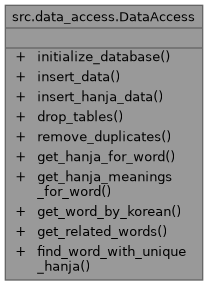
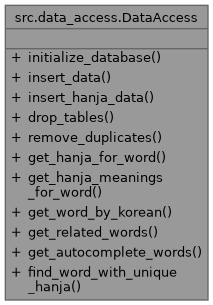
deploy: 163af90c7756c391848511adbbf691c6b5a837d2

Changed region(s): [[0.0288, 0.0, 0.9808, 1.0], [0.0577, 0.6737, 0.1154, 0.786]]

diff --git a/docs/navtreeindex0.js b/docs/navtreeindex0.js
@@ -3,42 +3,45 @@ var NAVTREEINDEX0 =
 "annotated.html":[1,0],
 "api_2____init_____8py.html":[2,0,0,0],
 "app_8py.html":[2,0,0,1],
-"app_8py.html#a01cb6213bd5592367067da38657a645a":[2,0,0,1,3],
-"app_8py.html#a176de600ef735cbe7b916fe2001e2b45":[2,0,0,1,8],
-"app_8py.html#a23e5c27fd4065b031f144521b7ae8497":[2,0,0,1,10],
-"app_8py.html#a56a8ed779749a77078562ad87be4fe04":[2,0,0,1,12],
-"app_8py.html#a5702ea214d2b31eb72a5029626bb70f8":[2,0,0,1,7],
-"app_8py.html#a72deaea484bf30029cb784dff75ec1f3":[2,0,0,1,0],
-"app_8py.html#a7a6d88df119924b34e474cf535263d06":[2,0,0,1,9],
-"app_8py.html#a8f56da2bd58eca36a1801418061ecc6b":[2,0,0,1,6],
-"app_8py.html#adb31592a03050f9813bd881678d6763f":[2,0,0,1,11],
-"app_8py.html#addcd3a07c06bd2200b07980fd50904d3":[2,0,0,1,4],
-"app_8py.html#ae1043cf9b00c1192e6269f629c5670bf":[2,0,0,1,2],
-"app_8py.html#ae8b1a661fd35aa767fc796c02781ba82":[2,0,0,1,1],
-"app_8py.html#af539acf96b123b092913c3b972d45f8d":[2,0,0,1,5],
+"app_8py.html#a01cb6213bd5592367067da38657a645a":[2,0,0,1,4],
+"app_8py.html#a175e2db7f35d625785ddcf39ac84b825":[2,0,0,1,0],
+"app_8py.html#a176de600ef735cbe7b916fe2001e2b45":[2,0,0,1,9],
+"app_8py.html#a23e5c27fd4065b031f144521b7ae8497":[2,0,0,1,11],
+"app_8py.html#a56a8ed779749a77078562ad87be4fe04":[2,0,0,1,13],
+"app_8py.html#a5702ea214d2b31eb72a5029626bb70f8":[2,0,0,1,8],
+"app_8py.html#a72deaea484bf30029cb784dff75ec1f3":[2,0,0,1,1],
+"app_8py.html#a7a6d88df119924b34e474cf535263d06":[2,0,0,1,10],
+"app_8py.html#a8f56da2bd58eca36a1801418061ecc6b":[2,0,0,1,7],
+"app_8py.html#adb31592a03050f9813bd881678d6763f":[2,0,0,1,12],
+"app_8py.html#addcd3a07c06bd2200b07980fd50904d3":[2,0,0,1,5],
+"app_8py.html#ae1043cf9b00c1192e6269f629c5670bf":[2,0,0,1,3],
+"app_8py.html#ae8b1a661fd35aa767fc796c02781ba82":[2,0,0,1,2],
+"app_8py.html#af539acf96b123b092913c3b972d45f8d":[2,0,0,1,6],
 "classes.html":[1,1],
-"classsrc_1_1data__access_1_1DataAccess.html":[0,0,1,1,0],
 "classsrc_1_1data__access_1_1DataAccess.html":[1,0,0,0,0],
-"classsrc_1_1data__access_1_1DataAccess.html#a1122604162d00ff40da4c08ce4761cbb":[1,0,0,0,0,5],
-"classsrc_1_1data__access_1_1DataAccess.html#a1122604162d00ff40da4c08ce4761cbb":[0,0,1,1,0,5],
-"classsrc_1_1data__access_1_1DataAccess.html#a1cfc6893f66c213340355c6acaf1a3a3":[1,0,0,0,0,8],
-"classsrc_1_1data__access_1_1DataAccess.html#a1cfc6893f66c213340355c6acaf1a3a3":[0,0,1,1,0,8],
-"classsrc_1_1data__access_1_1DataAccess.html#a1f8eb51816b5631748421df5638689e4":[0,0,1,1,0,4],
-"classsrc_1_1data__access_1_1DataAccess.html#a1f8eb51816b5631748421df5638689e4":[1,0,0,0,0,4],
-"classsrc_1_1data__access_1_1DataAccess.html#a3d1907ec15f436a5a700997ec2bdeedd":[0,0,1,1,0,3],
-"classsrc_1_1data__access_1_1DataAccess.html#a3d1907ec15f436a5a700997ec2bdeedd":[1,0,0,0,0,3],
-"classsrc_1_1data__access_1_1DataAccess.html#a4684f7cefabfbcb84b28be9e2ef74f64":[0,0,1,1,0,6],
-"classsrc_1_1data__access_1_1DataAccess.html#a4684f7cefabfbcb84b28be9e2ef74f64":[1,0,0,0,0,6],
-"classsrc_1_1data__access_1_1DataAccess.html#a4f4e7ab71ee7131858752bdfb4d0e2f1":[0,0,1,1,0,7],
-"classsrc_1_1data__access_1_1DataAccess.html#a4f4e7ab71ee7131858752bdfb4d0e2f1":[1,0,0,0,0,7],
-"classsrc_1_1data__access_1_1DataAccess.html#a6c59fef88695c46c9ee18f370e4346c6":[1,0,0,0,0,2],
-"classsrc_1_1data__access_1_1DataAccess.html#a6c59fef88695c46c9ee18f370e4346c6":[0,0,1,1,0,2],
-"classsrc_1_1data__access_1_1DataAccess.html#abcea9b4378c4ccf458bc2ad40418efdd":[1,0,0,0,0,1],
+"classsrc_1_1data__access_1_1DataAccess.html":[0,0,1,1,0],
+"classsrc_1_1data__access_1_1DataAccess.html#a1122604162d00ff40da4c08ce4761cbb":[0,0,1,1,0,6],
+"classsrc_1_1data__access_1_1DataAccess.html#a1122604162d00ff40da4c08ce4761cbb":[1,0,0,0,0,6],
+"classsrc_1_1data__access_1_1DataAccess.html#a1cfc6893f66c213340355c6acaf1a3a3":[1,0,0,0,0,9],
+"classsrc_1_1data__access_1_1DataAccess.html#a1cfc6893f66c213340355c6acaf1a3a3":[0,0,1,1,0,9],
+"classsrc_1_1data__access_1_1DataAccess.html#a1f8eb51816b5631748421df5638689e4":[0,0,1,1,0,5],
+"classsrc_1_1data__access_1_1DataAccess.html#a1f8eb51816b5631748421df5638689e4":[1,0,0,0,0,5],
+"classsrc_1_1data__access_1_1DataAccess.html#a3d1907ec15f436a5a700997ec2bdeedd":[0,0,1,1,0,4],
+"classsrc_1_1data__access_1_1DataAccess.html#a3d1907ec15f436a5a700997ec2bdeedd":[1,0,0,0,0,4],
+"classsrc_1_1data__access_1_1DataAccess.html#a4684f7cefabfbcb84b28be9e2ef74f64":[1,0,0,0,0,7],
+"classsrc_1_1data__access_1_1DataAccess.html#a4684f7cefabfbcb84b28be9e2ef74f64":[0,0,1,1,0,7],
+"classsrc_1_1data__access_1_1DataAccess.html#a4f4e7ab71ee7131858752bdfb4d0e2f1":[1,0,0,0,0,8],
+"classsrc_1_1data__access_1_1DataAccess.html#a4f4e7ab71ee7131858752bdfb4d0e2f1":[0,0,1,1,0,8],
+"classsrc_1_1data__access_1_1DataAccess.html#a6c59fef88695c46c9ee18f370e4346c6":[0,0,1,1,0,3],
+"classsrc_1_1data__access_1_1DataAccess.html#a6c59fef88695c46c9ee18f370e4346c6":[1,0,0,0,0,3],
+"classsrc_1_1data__access_1_1DataAccess.html#a7ccd10d3de002277f47fd9397fc046e2":[1,0,0,0,0,2],
+"classsrc_1_1data__access_1_1DataAccess.html#a7ccd10d3de002277f47fd9397fc046e2":[0,0,1,1,0,2],
 "classsrc_1_1data__access_1_1DataAccess.html#abcea9b4378c4ccf458bc2ad40418efdd":[0,0,1,1,0,1],
+"classsrc_1_1data__access_1_1DataAccess.html#abcea9b4378c4ccf458bc2ad40418efdd":[1,0,0,0,0,1],
 "classsrc_1_1data__access_1_1DataAccess.html#aeea5396030fe584da1640d87530a5cf1":[1,0,0,0,0,0],
 "classsrc_1_1data__access_1_1DataAccess.html#aeea5396030fe584da1640d87530a5cf1":[0,0,1,1,0,0],
-"classsrc_1_1data__access_1_1DataAccess.html#af99a1b0f03112122e4af577353d3444b":[0,0,1,1,0,9],
-"classsrc_1_1data__access_1_1DataAccess.html#af99a1b0f03112122e4af577353d3444b":[1,0,0,0,0,9],
+"classsrc_1_1data__access_1_1DataAccess.html#af99a1b0f03112122e4af577353d3444b":[0,0,1,1,0,10],
+"classsrc_1_1data__access_1_1DataAccess.html#af99a1b0f03112122e4af577353d3444b":[1,0,0,0,0,10],
 "classsrc_1_1data__processing_1_1DataProcessor.html":[1,0,0,1,0],
 "classsrc_1_1data__processing_1_1DataProcessor.html":[0,0,1,2,0],
 "classsrc_1_1data__processing_1_1DataProcessor.html#a3a6f7d8ef4426dfe180524a089fe5ea9":[0,0,1,2,0,7],
@@ -59,22 +62,22 @@ var NAVTREEINDEX0 =
 "classsrc_1_1data__processing_1_1DataProcessor.html#a908b48e2667224a24a994f9f15819cdb":[1,0,0,1,0,13],
 "classsrc_1_1data__processing_1_1DataProcessor.html#aa387522f4d9d82eab51fad066c97c404":[1,0,0,1,0,3],
 "classsrc_1_1data__processing_1_1DataProcessor.html#aa387522f4d9d82eab51fad066c97c404":[0,0,1,2,0,3],
-"classsrc_1_1data__processing_1_1DataProcessor.html#ac8e2944d6f855feb557e929eb4631b51":[0,0,1,2,0,8],
 "classsrc_1_1data__processing_1_1DataProcessor.html#ac8e2944d6f855feb557e929eb4631b51":[1,0,0,1,0,8],
-"classsrc_1_1data__processing_1_1DataProcessor.html#aca8cb2dd99e8358d0c80ff0f04307193":[1,0,0,1,0,9],
+"classsrc_1_1data__processing_1_1DataProcessor.html#ac8e2944d6f855feb557e929eb4631b51":[0,0,1,2,0,8],
 "classsrc_1_1data__processing_1_1DataProcessor.html#aca8cb2dd99e8358d0c80ff0f04307193":[0,0,1,2,0,9],
+"classsrc_1_1data__processing_1_1DataProcessor.html#aca8cb2dd99e8358d0c80ff0f04307193":[1,0,0,1,0,9],
 "classsrc_1_1data__processing_1_1DataProcessor.html#accedfc491786ec5de0b62d9f13ed1d2f":[1,0,0,1,0,0],
 "classsrc_1_1data__processing_1_1DataProcessor.html#accedfc491786ec5de0b62d9f13ed1d2f":[0,0,1,2,0,0],
 "classsrc_1_1data__processing_1_1DataProcessor.html#acee13daf812b03ebd4b468b5bd21d832":[0,0,1,2,0,12],
 "classsrc_1_1data__processing_1_1DataProcessor.html#acee13daf812b03ebd4b468b5bd21d832":[1,0,0,1,0,12],
-"classsrc_1_1data__processing_1_1DataProcessor.html#ad0cff2f590f2a2398bf8bcc35c99cfc9":[0,0,1,2,0,4],
 "classsrc_1_1data__processing_1_1DataProcessor.html#ad0cff2f590f2a2398bf8bcc35c99cfc9":[1,0,0,1,0,4],
+"classsrc_1_1data__processing_1_1DataProcessor.html#ad0cff2f590f2a2398bf8bcc35c99cfc9":[0,0,1,2,0,4],
 "classsrc_1_1data__processing_1_1DataProcessor.html#af1d408b78a8a28b54b96e30bc3de1754":[0,0,1,2,0,10],
 "classsrc_1_1data__processing_1_1DataProcessor.html#af1d408b78a8a28b54b96e30bc3de1754":[1,0,0,1,0,10],
-"classsrc_1_1database_1_1DatabaseConnection.html":[1,0,0,2,0],
 "classsrc_1_1database_1_1DatabaseConnection.html":[0,0,1,3,0],
-"classsrc_1_1database_1_1DatabaseConnection.html#a00d6547240ef42d689d7825c7a5ad1ed":[1,0,0,2,0,1],
+"classsrc_1_1database_1_1DatabaseConnection.html":[1,0,0,2,0],
 "classsrc_1_1database_1_1DatabaseConnection.html#a00d6547240ef42d689d7825c7a5ad1ed":[0,0,1,3,0,1],
+"classsrc_1_1database_1_1DatabaseConnection.html#a00d6547240ef42d689d7825c7a5ad1ed":[1,0,0,2,0,1],
 "classsrc_1_1database_1_1DatabaseConnection.html#ab4b17edc08a871595f10ae5d2c519806":[1,0,0,2,0,0],
 "classsrc_1_1database_1_1DatabaseConnection.html#ab4b17edc08a871595f10ae5d2c519806":[0,0,1,3,0,0],
 "classsrc_1_1database_1_1DatabaseConnection.html#ace6735dee7ad91a77d0b120ae3cb3f87":[1,0,0,2,0,2],
@@ -96,19 +99,20 @@ var NAVTREEINDEX0 =
 "main_8py.html#a756d97178b0d2558784ee8b4b5f05c7e":[2,0,1,5,0],
 "namespaceapi.html":[0,0,0],
 "namespaceapi_1_1app.html":[0,0,0,0],
-"namespaceapi_1_1app.html#a01cb6213bd5592367067da38657a645a":[0,0,0,0,3],
-"namespaceapi_1_1app.html#a176de600ef735cbe7b916fe2001e2b45":[0,0,0,0,8],
-"namespaceapi_1_1app.html#a23e5c27fd4065b031f144521b7ae8497":[0,0,0,0,10],
-"namespaceapi_1_1app.html#a56a8ed779749a77078562ad87be4fe04":[0,0,0,0,12],
-"namespaceapi_1_1app.html#a5702ea214d2b31eb72a5029626bb70f8":[0,0,0,0,7],
-"namespaceapi_1_1app.html#a72deaea484bf30029cb784dff75ec1f3":[0,0,0,0,0],
-"namespaceapi_1_1app.html#a7a6d88df119924b34e474cf535263d06":[0,0,0,0,9],
-"namespaceapi_1_1app.html#a8f56da2bd58eca36a1801418061ecc6b":[0,0,0,0,6],
-"namespaceapi_1_1app.html#adb31592a03050f9813bd881678d6763f":[0,0,0,0,11],
-"namespaceapi_1_1app.html#addcd3a07c06bd2200b07980fd50904d3":[0,0,0,0,4],
-"namespaceapi_1_1app.html#ae1043cf9b00c1192e6269f629c5670bf":[0,0,0,0,2],
-"namespaceapi_1_1app.html#ae8b1a661fd35aa767fc796c02781ba82":[0,0,0,0,1],
-"namespaceapi_1_1app.html#af539acf96b123b092913c3b972d45f8d":[0,0,0,0,5],
+"namespaceapi_1_1app.html#a01cb6213bd5592367067da38657a645a":[0,0,0,0,4],
+"namespaceapi_1_1app.html#a175e2db7f35d625785ddcf39ac84b825":[0,0,0,0,0],
+"namespaceapi_1_1app.html#a176de600ef735cbe7b916fe2001e2b45":[0,0,0,0,9],
+"namespaceapi_1_1app.html#a23e5c27fd4065b031f144521b7ae8497":[0,0,0,0,11],
+"namespaceapi_1_1app.html#a56a8ed779749a77078562ad87be4fe04":[0,0,0,0,13],
+"namespaceapi_1_1app.html#a5702ea214d2b31eb72a5029626bb70f8":[0,0,0,0,8],
+"namespaceapi_1_1app.html#a72deaea484bf30029cb784dff75ec1f3":[0,0,0,0,1],
+"namespaceapi_1_1app.html#a7a6d88df119924b34e474cf535263d06":[0,0,0,0,10],
+"namespaceapi_1_1app.html#a8f56da2bd58eca36a1801418061ecc6b":[0,0,0,0,7],
+"namespaceapi_1_1app.html#adb31592a03050f9813bd881678d6763f":[0,0,0,0,12],
+"namespaceapi_1_1app.html#addcd3a07c06bd2200b07980fd50904d3":[0,0,0,0,5],
+"namespaceapi_1_1app.html#ae1043cf9b00c1192e6269f629c5670bf":[0,0,0,0,3],
+"namespaceapi_1_1app.html#ae8b1a661fd35aa767fc796c02781ba82":[0,0,0,0,2],
+"namespaceapi_1_1app.html#af539acf96b123b092913c3b972d45f8d":[0,0,0,0,6],
 "namespacemembers.html":[0,1,0],
 "namespacemembers_func.html":[0,1,1],
 "namespacemembers_vars.html":[0,1,2],

diff --git a/docs/classsrc_1_1data__access_1_1DataAccess-members.html b/docs/classsrc_1_1data__access_1_1DataAccess-members.html
@@ -104,14 +104,15 @@ $(document).ready(function(){initNavTree('classsrc_1_1data__access_1_1DataAccess
 <table class="directory">
   <tr class="even"><td class="entry"><a class="el" href="classsrc_1_1data__access_1_1DataAccess.html#aeea5396030fe584da1640d87530a5cf1">drop_tables</a>(self)</td><td class="entry"><a class="el" href="classsrc_1_1data__access_1_1DataAccess.html">src.data_access.DataAccess</a></td><td class="entry"></td></tr>
   <tr class="odd"><td class="entry"><a class="el" href="classsrc_1_1data__access_1_1DataAccess.html#abcea9b4378c4ccf458bc2ad40418efdd">find_word_with_unique_hanja</a>(self)</td><td class="entry"><a class="el" href="classsrc_1_1data__access_1_1DataAccess.html">src.data_access.DataAccess</a></td><td class="entry"></td></tr>
-  <tr class="even"><td class="entry"><a class="el" href="classsrc_1_1data__access_1_1DataAccess.html#a6c59fef88695c46c9ee18f370e4346c6">get_hanja_for_word</a>(self, word)</td><td class="entry"><a class="el" href="classsrc_1_1data__access_1_1DataAccess.html">src.data_access.DataAccess</a></td><td class="entry"></td></tr>
-  <tr class="odd"><td class="entry"><a class="el" href="classsrc_1_1data__access_1_1DataAccess.html#a3d1907ec15f436a5a700997ec2bdeedd">get_hanja_meanings_for_word</a>(self, word, hanja_list, language)</td><td class="entry"><a class="el" href="classsrc_1_1data__access_1_1DataAccess.html">src.data_access.DataAccess</a></td><td class="entry"></td></tr>
-  <tr class="even"><td class="entry"><a class="el" href="classsrc_1_1data__access_1_1DataAccess.html#a1f8eb51816b5631748421df5638689e4">get_related_words</a>(self, hanja_character, language)</td><td class="entry"><a class="el" href="classsrc_1_1data__access_1_1DataAccess.html">src.data_access.DataAccess</a></td><td class="entry"></td></tr>
-  <tr class="odd"><td class="entry"><a class="el" href="classsrc_1_1data__access_1_1DataAccess.html#a1122604162d00ff40da4c08ce4761cbb">get_word_by_korean</a>(self, korean_word, language, hanja_characters=None)</td><td class="entry"><a class="el" href="classsrc_1_1data__access_1_1DataAccess.html">src.data_access.DataAccess</a></td><td class="entry"></td></tr>
-  <tr class="even"><td class="entry"><a class="el" href="classsrc_1_1data__access_1_1DataAccess.html#a4684f7cefabfbcb84b28be9e2ef74f64">initialize_database</a>(self)</td><td class="entry"><a class="el" href="classsrc_1_1data__access_1_1DataAccess.html">src.data_access.DataAccess</a></td><td class="entry"></td></tr>
-  <tr class="odd"><td class="entry"><a class="el" href="classsrc_1_1data__access_1_1DataAccess.html#a4f4e7ab71ee7131858752bdfb4d0e2f1">insert_data</a>(self, processed_data)</td><td class="entry"><a class="el" href="classsrc_1_1data__access_1_1DataAccess.html">src.data_access.DataAccess</a></td><td class="entry"></td></tr>
-  <tr class="even"><td class="entry"><a class="el" href="classsrc_1_1data__access_1_1DataAccess.html#a1cfc6893f66c213340355c6acaf1a3a3">insert_hanja_data</a>(self, hanja_dict)</td><td class="entry"><a class="el" href="classsrc_1_1data__access_1_1DataAccess.html">src.data_access.DataAccess</a></td><td class="entry"></td></tr>
-  <tr class="odd"><td class="entry"><a class="el" href="classsrc_1_1data__access_1_1DataAccess.html#af99a1b0f03112122e4af577353d3444b">remove_duplicates</a>(self)</td><td class="entry"><a class="el" href="classsrc_1_1data__access_1_1DataAccess.html">src.data_access.DataAccess</a></td><td class="entry"></td></tr>
+  <tr class="even"><td class="entry"><a class="el" href="classsrc_1_1data__access_1_1DataAccess.html#a7ccd10d3de002277f47fd9397fc046e2">get_autocomplete_words</a>(self, query, limit=10)</td><td class="entry"><a class="el" href="classsrc_1_1data__access_1_1DataAccess.html">src.data_access.DataAccess</a></td><td class="entry"></td></tr>
+  <tr class="odd"><td class="entry"><a class="el" href="classsrc_1_1data__access_1_1DataAccess.html#a6c59fef88695c46c9ee18f370e4346c6">get_hanja_for_word</a>(self, word)</td><td class="entry"><a class="el" href="classsrc_1_1data__access_1_1DataAccess.html">src.data_access.DataAccess</a></td><td class="entry"></td></tr>
+  <tr class="even"><td class="entry"><a class="el" href="classsrc_1_1data__access_1_1DataAccess.html#a3d1907ec15f436a5a700997ec2bdeedd">get_hanja_meanings_for_word</a>(self, word, hanja_list, language)</td><td class="entry"><a class="el" href="classsrc_1_1data__access_1_1DataAccess.html">src.data_access.DataAccess</a></td><td class="entry"></td></tr>
+  <tr class="odd"><td class="entry"><a class="el" href="classsrc_1_1data__access_1_1DataAccess.html#a1f8eb51816b5631748421df5638689e4">get_related_words</a>(self, hanja_character, language)</td><td class="entry"><a class="el" href="classsrc_1_1data__access_1_1DataAccess.html">src.data_access.DataAccess</a></td><td class="entry"></td></tr>
+  <tr class="even"><td class="entry"><a class="el" href="classsrc_1_1data__access_1_1DataAccess.html#a1122604162d00ff40da4c08ce4761cbb">get_word_by_korean</a>(self, korean_word, language, hanja_characters=None)</td><td class="entry"><a class="el" href="classsrc_1_1data__access_1_1DataAccess.html">src.data_access.DataAccess</a></td><td class="entry"></td></tr>
+  <tr class="odd"><td class="entry"><a class="el" href="classsrc_1_1data__access_1_1DataAccess.html#a4684f7cefabfbcb84b28be9e2ef74f64">initialize_database</a>(self)</td><td class="entry"><a class="el" href="classsrc_1_1data__access_1_1DataAccess.html">src.data_access.DataAccess</a></td><td class="entry"></td></tr>
+  <tr class="even"><td class="entry"><a class="el" href="classsrc_1_1data__access_1_1DataAccess.html#a4f4e7ab71ee7131858752bdfb4d0e2f1">insert_data</a>(self, processed_data)</td><td class="entry"><a class="el" href="classsrc_1_1data__access_1_1DataAccess.html">src.data_access.DataAccess</a></td><td class="entry"></td></tr>
+  <tr class="odd"><td class="entry"><a class="el" href="classsrc_1_1data__access_1_1DataAccess.html#a1cfc6893f66c213340355c6acaf1a3a3">insert_hanja_data</a>(self, hanja_dict)</td><td class="entry"><a class="el" href="classsrc_1_1data__access_1_1DataAccess.html">src.data_access.DataAccess</a></td><td class="entry"></td></tr>
+  <tr class="even"><td class="entry"><a class="el" href="classsrc_1_1data__access_1_1DataAccess.html#af99a1b0f03112122e4af577353d3444b">remove_duplicates</a>(self)</td><td class="entry"><a class="el" href="classsrc_1_1data__access_1_1DataAccess.html">src.data_access.DataAccess</a></td><td class="entry"></td></tr>
 </table></div><!-- contents -->
 </div><!-- doc-content -->
 <!-- start footer part -->

diff --git a/docs/classsrc_1_1data__access_1_1DataAccess.html b/docs/classsrc_1_1data__access_1_1DataAccess.html
@@ -110,7 +110,7 @@ Collaboration diagram for src.data_access.DataAccess:</div>
 <div class="dyncontent">
 <div class="center"><img src="classsrc_1_1data__access_1_1DataAccess__coll__graph.png" border="0" usemap="#asrc_8data__access_8DataAccess_coll__map" alt="Collaboration graph"/></div>
 <map name="asrc_8data__access_8DataAccess_coll__map" id="asrc_8data__access_8DataAccess_coll__map">
-<area shape="rect" title="A class to handle database operations for managing Korean words and their associated Hanja characters..." alt="" coords="5,5,203,280"/>
+<area shape="rect" title="A class to handle database operations for managing Korean words and their associated Hanja characters..." alt="" coords="5,5,208,300"/>
 </map>
 </div>
 <table class="memberdecls">
@@ -141,6 +141,9 @@ Public Member Functions</h2></td></tr>
 <tr class="memitem:a1f8eb51816b5631748421df5638689e4" id="r_a1f8eb51816b5631748421df5638689e4"><td class="memItemLeft" align="right" valign="top">&#160;</td><td class="memItemRight" valign="bottom"><a class="el" href="classsrc_1_1data__access_1_1DataAccess.html#a1f8eb51816b5631748421df5638689e4">get_related_words</a> (self, hanja_character, language)</td></tr>
 <tr class="memdesc:a1f8eb51816b5631748421df5638689e4"><td class="mdescLeft">&#160;</td><td class="mdescRight">Gets all the words that contains the specified hanja character.  <br /></td></tr>
 <tr class="separator:a1f8eb51816b5631748421df5638689e4"><td class="memSeparator" colspan="2">&#160;</td></tr>
+<tr class="memitem:a7ccd10d3de002277f47fd9397fc046e2" id="r_a7ccd10d3de002277f47fd9397fc046e2"><td class="memItemLeft" align="right" valign="top">&#160;</td><td class="memItemRight" valign="bottom"><a class="el" href="classsrc_1_1data__access_1_1DataAccess.html#a7ccd10d3de002277f47fd9397fc046e2">get_autocomplete_words</a> (self, query, limit=10)</td></tr>
+<tr class="memdesc:a7ccd10d3de002277f47fd9397fc046e2"><td class="mdescLeft">&#160;</td><td class="mdescRight">Fetches a list of word suggestions that start with the provided query.  <br /></td></tr>
+<tr class="separator:a7ccd10d3de002277f47fd9397fc046e2"><td class="memSeparator" colspan="2">&#160;</td></tr>
 <tr class="memitem:abcea9b4378c4ccf458bc2ad40418efdd" id="r_abcea9b4378c4ccf458bc2ad40418efdd"><td class="memItemLeft" align="right" valign="top">&#160;</td><td class="memItemRight" valign="bottom"><a class="el" href="classsrc_1_1data__access_1_1DataAccess.html#abcea9b4378c4ccf458bc2ad40418efdd">find_word_with_unique_hanja</a> (self)</td></tr>
 <tr class="memdesc:abcea9b4378c4ccf458bc2ad40418efdd"><td class="mdescLeft">&#160;</td><td class="mdescRight">Finds a Korean word where at least one Hanja character is unique to that word.  <br /></td></tr>
 <tr class="separator:abcea9b4378c4ccf458bc2ad40418efdd"><td class="memSeparator" colspan="2">&#160;</td></tr>
@@ -186,6 +189,50 @@ Public Member Functions</h2></td></tr>
 
 <p>Finds a Korean word where at least one Hanja character is unique to that word. </p>
 <dl class="section return"><dt>Returns</dt><dd>list of words with unique Hanja characters. </dd></dl>
+
+</div>
+</div>
+<a id="a7ccd10d3de002277f47fd9397fc046e2" name="a7ccd10d3de002277f47fd9397fc046e2"></a>
+<h2 class="memtitle"><span class="permalink"><a href="#a7ccd10d3de002277f47fd9397fc046e2">&#9670;&#160;</a></span>get_autocomplete_words()</h2>
+
+<div class="memitem">
+<div class="memproto">
+      <table class="memname">
+        <tr>
+          <td class="memname">src.data_access.DataAccess.get_autocomplete_words </td>
+          <td>(</td>
+          <td class="paramtype">&#160;</td>
+          <td class="paramname"><em>self</em>, </td>
+        </tr>
+        <tr>
+          <td class="paramkey"></td>
+          <td></td>
+          <td class="paramtype">&#160;</td>
+          <td class="paramname"><em>query</em>, </td>
+        </tr>
+        <tr>
+          <td class="paramkey"></td>
+          <td></td>
+          <td class="paramtype">&#160;</td>
+          <td class="paramname"><em>limit</em> = <code>10</code>&#160;</td>
+        </tr>
+        <tr>
+          <td></td>
+          <td>)</td>
+          <td></td><td></td>
+        </tr>
+      </table>
+</div><div class="memdoc">
+
+<p>Fetches a list of word suggestions that start with the provided query. </p>
+<dl class="params"><dt>Parameters</dt><dd>
+  <table class="params">
+    <tr><td class="paramname">query</td><td>The prefix to search for. </td></tr>
+    <tr><td class="paramname">limit</td><td>Maximum number of results to return. </td></tr>
+  </table>
+  </dd>
+</dl>
+<dl class="section return"><dt>Returns</dt><dd>: A list of matching word strings. </dd></dl>
 
 </div>
 </div>

diff --git a/docs/namespaceapi_1_1app.html b/docs/namespaceapi_1_1app.html
@@ -117,6 +117,9 @@ Functions</h2></td></tr>
 <tr class="memitem:ae8b1a661fd35aa767fc796c02781ba82" id="r_ae8b1a661fd35aa767fc796c02781ba82"><td class="memItemLeft" align="right" valign="top">&#160;</td><td class="memItemRight" valign="bottom"><a class="el" href="namespaceapi_1_1app.html#ae8b1a661fd35aa767fc796c02781ba82">related_words</a> ()</td></tr>
 <tr class="memdesc:ae8b1a661fd35aa767fc796c02781ba82"><td class="mdescLeft">&#160;</td><td class="mdescRight">Retrieve related words for a given Hanja character.  <br /></td></tr>
 <tr class="separator:ae8b1a661fd35aa767fc796c02781ba82"><td class="memSeparator" colspan="2">&#160;</td></tr>
+<tr class="memitem:a175e2db7f35d625785ddcf39ac84b825" id="r_a175e2db7f35d625785ddcf39ac84b825"><td class="memItemLeft" align="right" valign="top">&#160;</td><td class="memItemRight" valign="bottom"><a class="el" href="namespaceapi_1_1app.html#a175e2db7f35d625785ddcf39ac84b825">autocomplete</a> ()</td></tr>
+<tr class="memdesc:a175e2db7f35d625785ddcf39ac84b825"><td class="mdescLeft">&#160;</td><td class="mdescRight">Return word suggestions for the search bar autocomplete.  <br /></td></tr>
+<tr class="separator:a175e2db7f35d625785ddcf39ac84b825"><td class="memSeparator" colspan="2">&#160;</td></tr>
 <tr class="memitem:addcd3a07c06bd2200b07980fd50904d3" id="r_addcd3a07c06bd2200b07980fd50904d3"><td class="memItemLeft" align="right" valign="top">&#160;</td><td class="memItemRight" valign="bottom"><a class="el" href="namespaceapi_1_1app.html#addcd3a07c06bd2200b07980fd50904d3">vercel_app</a> (environ, start_response)</td></tr>
 <tr class="memdesc:addcd3a07c06bd2200b07980fd50904d3"><td class="mdescLeft">&#160;</td><td class="mdescRight">Entry point for Vercel serverless function.  <br /></td></tr>
 <tr class="separator:addcd3a07c06bd2200b07980fd50904d3"><td class="memSeparator" colspan="2">&#160;</td></tr>
@@ -141,6 +144,26 @@ Variables</h2></td></tr>
 <tr class="separator:a176de600ef735cbe7b916fe2001e2b45"><td class="memSeparator" colspan="2">&#160;</td></tr>
 </table>
 <h2 class="groupheader">Function Documentation</h2>
+<a id="a175e2db7f35d625785ddcf39ac84b825" name="a175e2db7f35d625785ddcf39ac84b825"></a>
+<h2 class="memtitle"><span class="permalink"><a href="#a175e2db7f35d625785ddcf39ac84b825">&#9670;&#160;</a></span>autocomplete()</h2>
+
+<div class="memitem">
+<div class="memproto">
+      <table class="memname">
+        <tr>
+          <td class="memname">api.app.autocomplete </td>
+          <td>(</td>
+          <td class="paramname"></td><td>)</td>
+          <td></td>
+        </tr>
+      </table>
+</div><div class="memdoc">
+
+<p>Return word suggestions for the search bar autocomplete. </p>
+<dl class="section return"><dt>Returns</dt><dd>JSON response containing a list of word suggestions. </dd></dl>
+
+</div>
+</div>
 <a id="a72deaea484bf30029cb784dff75ec1f3" name="a72deaea484bf30029cb784dff75ec1f3"></a>
 <h2 class="memtitle"><span class="permalink"><a href="#a72deaea484bf30029cb784dff75ec1f3">&#9670;&#160;</a></span>index()</h2>
 

diff --git a/docs/app_8py.html b/docs/app_8py.html
@@ -125,6 +125,9 @@ Functions</h2></td></tr>
 <tr class="memitem:ae8b1a661fd35aa767fc796c02781ba82" id="r_ae8b1a661fd35aa767fc796c02781ba82"><td class="memItemLeft" align="right" valign="top">&#160;</td><td class="memItemRight" valign="bottom"><a class="el" href="namespaceapi_1_1app.html#ae8b1a661fd35aa767fc796c02781ba82">api.app.related_words</a> ()</td></tr>
 <tr class="memdesc:ae8b1a661fd35aa767fc796c02781ba82"><td class="mdescLeft">&#160;</td><td class="mdescRight">Retrieve related words for a given Hanja character.  <br /></td></tr>
 <tr class="separator:ae8b1a661fd35aa767fc796c02781ba82"><td class="memSeparator" colspan="2">&#160;</td></tr>
+<tr class="memitem:a175e2db7f35d625785ddcf39ac84b825" id="r_a175e2db7f35d625785ddcf39ac84b825"><td class="memItemLeft" align="right" valign="top">&#160;</td><td class="memItemRight" valign="bottom"><a class="el" href="namespaceapi_1_1app.html#a175e2db7f35d625785ddcf39ac84b825">api.app.autocomplete</a> ()</td></tr>
+<tr class="memdesc:a175e2db7f35d625785ddcf39ac84b825"><td class="mdescLeft">&#160;</td><td class="mdescRight">Return word suggestions for the search bar autocomplete.  <br /></td></tr>
+<tr class="separator:a175e2db7f35d625785ddcf39ac84b825"><td class="memSeparator" colspan="2">&#160;</td></tr>
 <tr class="memitem:addcd3a07c06bd2200b07980fd50904d3" id="r_addcd3a07c06bd2200b07980fd50904d3"><td class="memItemLeft" align="right" valign="top">&#160;</td><td class="memItemRight" valign="bottom"><a class="el" href="namespaceapi_1_1app.html#addcd3a07c06bd2200b07980fd50904d3">api.app.vercel_app</a> (environ, start_response)</td></tr>
 <tr class="memdesc:addcd3a07c06bd2200b07980fd50904d3"><td class="mdescLeft">&#160;</td><td class="mdescRight">Entry point for Vercel serverless function.  <br /></td></tr>
 <tr class="separator:addcd3a07c06bd2200b07980fd50904d3"><td class="memSeparator" colspan="2">&#160;</td></tr>

diff --git a/docs/search/functions_3.js b/docs/search/functions_3.js
@@ -1,4 +1,12 @@
 var searchData=
 [
-  ['find_5fword_5fwith_5funique_5fhanja_0',['find_word_with_unique_hanja',['../classsrc_1_1data__access_1_1DataAccess.html#abcea9b4378c4ccf458bc2ad40418efdd',1,'src::data_access::DataAccess']]]
+  ['extract_5fdata_0',['extract_data',['../classsrc_1_1data__processing_1_1DataProcessor.html#a4d8f294a1410020041fdd57ebca5c629',1,'src::data_processing::DataProcessor']]],
+  ['extract_5fdefinition_1',['extract_definition',['../classsrc_1_1data__processing_1_1DataProcessor.html#a5ee76136c86c8978b38d4917ea51d145',1,'src::data_processing::DataProcessor']]],
+  ['extract_5fequivalents_2',['extract_equivalents',['../classsrc_1_1data__processing_1_1DataProcessor.html#aa387522f4d9d82eab51fad066c97c404',1,'src::data_processing::DataProcessor']]],
+  ['extract_5fhanja_3',['extract_hanja',['../classsrc_1_1data__processing_1_1DataProcessor.html#ad0cff2f590f2a2398bf8bcc35c99cfc9',1,'src::data_processing::DataProcessor']]],
+  ['extract_5fkorean_5fdefinition_4',['extract_korean_definition',['../classsrc_1_1data__processing_1_1DataProcessor.html#a8b10b2a476887fdf599456f74c582652',1,'src::data_processing::DataProcessor']]],
+  ['extract_5flanguage_5',['extract_language',['../classsrc_1_1data__processing_1_1DataProcessor.html#a8c28d40e8b07b8de8a765f8f5c9c18f8',1,'src::data_processing::DataProcessor']]],
+  ['extract_5flemma_6',['extract_lemma',['../classsrc_1_1data__processing_1_1DataProcessor.html#a3a6f7d8ef4426dfe180524a089fe5ea9',1,'src::data_processing::DataProcessor']]],
+  ['extract_5fpronounciation_7',['extract_pronounciation',['../classsrc_1_1data__processing_1_1DataProcessor.html#ac8e2944d6f855feb557e929eb4631b51',1,'src::data_processing::DataProcessor']]],
+  ['extract_5fword_8',['extract_word',['../classsrc_1_1data__processing_1_1DataProcessor.html#aca8cb2dd99e8358d0c80ff0f04307193',1,'src::data_processing::DataProcessor']]]
 ];

diff --git a/docs/search/functions_2.js b/docs/search/functions_2.js
@@ -1,12 +1,4 @@
 var searchData=
 [
-  ['extract_5fdata_0',['extract_data',['../classsrc_1_1data__processing_1_1DataProcessor.html#a4d8f294a1410020041fdd57ebca5c629',1,'src::data_processing::DataProcessor']]],
-  ['extract_5fdefinition_1',['extract_definition',['../classsrc_1_1data__processing_1_1DataProcessor.html#a5ee76136c86c8978b38d4917ea51d145',1,'src::data_processing::DataProcessor']]],
-  ['extract_5fequivalents_2',['extract_equivalents',['../classsrc_1_1data__processing_1_1DataProcessor.html#aa387522f4d9d82eab51fad066c97c404',1,'src::data_processing::DataProcessor']]],
-  ['extract_5fhanja_3',['extract_hanja',['../classsrc_1_1data__processing_1_1DataProcessor.html#ad0cff2f590f2a2398bf8bcc35c99cfc9',1,'src::data_processing::DataProcessor']]],
-  ['extract_5fkorean_5fdefinition_4',['extract_korean_definition',['../classsrc_1_1data__processing_1_1DataProcessor.html#a8b10b2a476887fdf599456f74c582652',1,'src::data_processing::DataProcessor']]],
-  ['extract_5flanguage_5',['extract_language',['../classsrc_1_1data__processing_1_1DataProcessor.html#a8c28d40e8b07b8de8a765f8f5c9c18f8',1,'src::data_processing::DataProcessor']]],
-  ['extract_5flemma_6',['extract_lemma',['../classsrc_1_1data__processing_1_1DataProcessor.html#a3a6f7d8ef4426dfe180524a089fe5ea9',1,'src::data_processing::DataProcessor']]],
-  ['extract_5fpronounciation_7',['extract_pronounciation',['../classsrc_1_1data__processing_1_1DataProcessor.html#ac8e2944d6f855feb557e929eb4631b51',1,'src::data_processing::DataProcessor']]],
-  ['extract_5fword_8',['extract_word',['../classsrc_1_1data__processing_1_1DataProcessor.html#aca8cb2dd99e8358d0c80ff0f04307193',1,'src::data_processing::DataProcessor']]]
+  ['drop_5ftables_0',['drop_tables',['../classsrc_1_1data__access_1_1DataAccess.html#aeea5396030fe584da1640d87530a5cf1',1,'src::data_access::DataAccess']]]
 ];

diff --git a/docs/search/all_7.js b/docs/search/all_7.js
@@ -1,7 +1,8 @@
 var searchData=
 [
-  ['get_5fhanja_5ffor_5fword_0',['get_hanja_for_word',['../classsrc_1_1data__access_1_1DataAccess.html#a6c59fef88695c46c9ee18f370e4346c6',1,'src::data_access::DataAccess']]],
-  ['get_5fhanja_5fmeanings_5ffor_5fword_1',['get_hanja_meanings_for_word',['../classsrc_1_1data__access_1_1DataAccess.html#a3d1907ec15f436a5a700997ec2bdeedd',1,'src::data_access::DataAccess']]],
-  ['get_5frelated_5fwords_2',['get_related_words',['../classsrc_1_1data__access_1_1DataAccess.html#a1f8eb51816b5631748421df5638689e4',1,'src::data_access::DataAccess']]],
-  ['get_5fword_5fby_5fkorean_3',['get_word_by_korean',['../classsrc_1_1data__access_1_1DataAccess.html#a1122604162d00ff40da4c08ce4761cbb',1,'src::data_access::DataAccess']]]
+  ['get_5fautocomplete_5fwords_0',['get_autocomplete_words',['../classsrc_1_1data__access_1_1DataAccess.html#a7ccd10d3de002277f47fd9397fc046e2',1,'src::data_access::DataAccess']]],
+  ['get_5fhanja_5ffor_5fword_1',['get_hanja_for_word',['../classsrc_1_1data__access_1_1DataAccess.html#a6c59fef88695c46c9ee18f370e4346c6',1,'src::data_access::DataAccess']]],
+  ['get_5fhanja_5fmeanings_5ffor_5fword_2',['get_hanja_meanings_for_word',['../classsrc_1_1data__access_1_1DataAccess.html#a3d1907ec15f436a5a700997ec2bdeedd',1,'src::data_access::DataAccess']]],
+  ['get_5frelated_5fwords_3',['get_related_words',['../classsrc_1_1data__access_1_1DataAccess.html#a1f8eb51816b5631748421df5638689e4',1,'src::data_access::DataAccess']]],
+  ['get_5fword_5fby_5fkorean_4',['get_word_by_korean',['../classsrc_1_1data__access_1_1DataAccess.html#a1122604162d00ff40da4c08ce4761cbb',1,'src::data_access::DataAccess']]]
 ];

diff --git a/docs/search/functions_5.js b/docs/search/functions_5.js
@@ -1,7 +1,8 @@
 var searchData=
 [
-  ['index_0',['index',['../namespaceapi_1_1app.html#a72deaea484bf30029cb784dff75ec1f3',1,'api::app']]],
-  ['initialize_5fdatabase_1',['initialize_database',['../classsrc_1_1data__access_1_1DataAccess.html#a4684f7cefabfbcb84b28be9e2ef74f64',1,'src::data_access::DataAccess']]],
-  ['insert_5fdata_2',['insert_data',['../classsrc_1_1data__access_1_1DataAccess.html#a4f4e7ab71ee7131858752bdfb4d0e2f1',1,'src::data_access::DataAccess']]],
-  ['insert_5fhanja_5fdata_3',['insert_hanja_data',['../classsrc_1_1data__access_1_1DataAccess.html#a1cfc6893f66c213340355c6acaf1a3a3',1,'src::data_access::DataAccess']]]
+  ['get_5fautocomplete_5fwords_0',['get_autocomplete_words',['../classsrc_1_1data__access_1_1DataAccess.html#a7ccd10d3de002277f47fd9397fc046e2',1,'src::data_access::DataAccess']]],
+  ['get_5fhanja_5ffor_5fword_1',['get_hanja_for_word',['../classsrc_1_1data__access_1_1DataAccess.html#a6c59fef88695c46c9ee18f370e4346c6',1,'src::data_access::DataAccess']]],
+  ['get_5fhanja_5fmeanings_5ffor_5fword_2',['get_hanja_meanings_for_word',['../classsrc_1_1data__access_1_1DataAccess.html#a3d1907ec15f436a5a700997ec2bdeedd',1,'src::data_access::DataAccess']]],
+  ['get_5frelated_5fwords_3',['get_related_words',['../classsrc_1_1data__access_1_1DataAccess.html#a1f8eb51816b5631748421df5638689e4',1,'src::data_access::DataAccess']]],
+  ['get_5fword_5fby_5fkorean_4',['get_word_by_korean',['../classsrc_1_1data__access_1_1DataAccess.html#a1122604162d00ff40da4c08ce4761cbb',1,'src::data_access::DataAccess']]]
 ];

diff --git a/docs/functions_func.html b/docs/functions_func.html
@@ -111,6 +111,7 @@ $(document).ready(function(){initNavTree('functions_func.html',''); initResizabl
 <li>extract_pronounciation()&#160;:&#160;<a class="el" href="classsrc_1_1data__processing_1_1DataProcessor.html#ac8e2944d6f855feb557e929eb4631b51">src.data_processing.DataProcessor</a></li>
 <li>extract_word()&#160;:&#160;<a class="el" href="classsrc_1_1data__processing_1_1DataProcessor.html#aca8cb2dd99e8358d0c80ff0f04307193">src.data_processing.DataProcessor</a></li>
 <li>find_word_with_unique_hanja()&#160;:&#160;<a class="el" href="classsrc_1_1data__access_1_1DataAccess.html#abcea9b4378c4ccf458bc2ad40418efdd">src.data_access.DataAccess</a></li>
+<li>get_autocomplete_words()&#160;:&#160;<a class="el" href="classsrc_1_1data__access_1_1DataAccess.html#a7ccd10d3de002277f47fd9397fc046e2">src.data_access.DataAccess</a></li>
 <li>get_hanja_for_word()&#160;:&#160;<a class="el" href="classsrc_1_1data__access_1_1DataAccess.html#a6c59fef88695c46c9ee18f370e4346c6">src.data_access.DataAccess</a></li>
 <li>get_hanja_meanings_for_word()&#160;:&#160;<a class="el" href="classsrc_1_1data__access_1_1DataAccess.html#a3d1907ec15f436a5a700997ec2bdeedd">src.data_access.DataAccess</a></li>
 <li>get_related_words()&#160;:&#160;<a class="el" href="classsrc_1_1data__access_1_1DataAccess.html#a1f8eb51816b5631748421df5638689e4">src.data_access.DataAccess</a></li>

diff --git a/docs/functions.html b/docs/functions.html
@@ -113,6 +113,7 @@ $(document).ready(function(){initNavTree('functions.html',''); initResizable(); 
 <li>extract_word()&#160;:&#160;<a class="el" href="classsrc_1_1data__processing_1_1DataProcessor.html#aca8cb2dd99e8358d0c80ff0f04307193">src.data_processing.DataProcessor</a></li>
 <li>find_word_with_unique_hanja()&#160;:&#160;<a class="el" href="classsrc_1_1data__access_1_1DataAccess.html#abcea9b4378c4ccf458bc2ad40418efdd">src.data_access.DataAccess</a></li>
 <li>folder_path&#160;:&#160;<a class="el" href="classsrc_1_1data__processing_1_1DataProcessor.html#a3f151d5d1bb0d7794aacf774691d3d1f">src.data_processing.DataProcessor</a></li>
+<li>get_autocomplete_words()&#160;:&#160;<a class="el" href="classsrc_1_1data__access_1_1DataAccess.html#a7ccd10d3de002277f47fd9397fc046e2">src.data_access.DataAccess</a></li>
 <li>get_hanja_for_word()&#160;:&#160;<a class="el" href="classsrc_1_1data__access_1_1DataAccess.html#a6c59fef88695c46c9ee18f370e4346c6">src.data_access.DataAccess</a></li>
 <li>get_hanja_meanings_for_word()&#160;:&#160;<a class="el" href="classsrc_1_1data__access_1_1DataAccess.html#a3d1907ec15f436a5a700997ec2bdeedd">src.data_access.DataAccess</a></li>
 <li>get_related_words()&#160;:&#160;<a class="el" href="classsrc_1_1data__access_1_1DataAccess.html#a1f8eb51816b5631748421df5638689e4">src.data_access.DataAccess</a></li>

diff --git a/docs/search/functions_8.js b/docs/search/functions_8.js
@@ -1,7 +1,5 @@
 var searchData=
 [
-  ['read_5fhanja_5ffile_0',['read_hanja_file',['../classsrc_1_1data__processing_1_1DataProcessor.html#acee13daf812b03ebd4b468b5bd21d832',1,'src::data_processing::DataProcessor']]],
-  ['related_5fwords_1',['related_words',['../namespaceapi_1_1app.html#ae8b1a661fd35aa767fc796c02781ba82',1,'api::app']]],
-  ['remove_5fduplicates_2',['remove_duplicates',['../classsrc_1_1data__access_1_1DataAccess.html#af99a1b0f03112122e4af577353d3444b',1,'src::data_access::DataAccess']]],
-  ['reorder_5fhanja_5fresults_3',['reorder_hanja_results',['../classsrc_1_1data__processing_1_1DataProcessor.html#a908b48e2667224a24a994f9f15819cdb',1,'src::data_processing::DataProcessor']]]
+  ['process_5fdata_0',['process_data',['../classsrc_1_1data__processing_1_1DataProcessor.html#af1d408b78a8a28b54b96e30bc3de1754',1,'src::data_processing::DataProcessor']]],
+  ['process_5fhanja_5fdata_1',['process_hanja_data',['../classsrc_1_1data__processing_1_1DataProcessor.html#a611dcfaf4a6c3129fc38bc01d659203f',1,'src::data_processing::DataProcessor']]]
 ];
